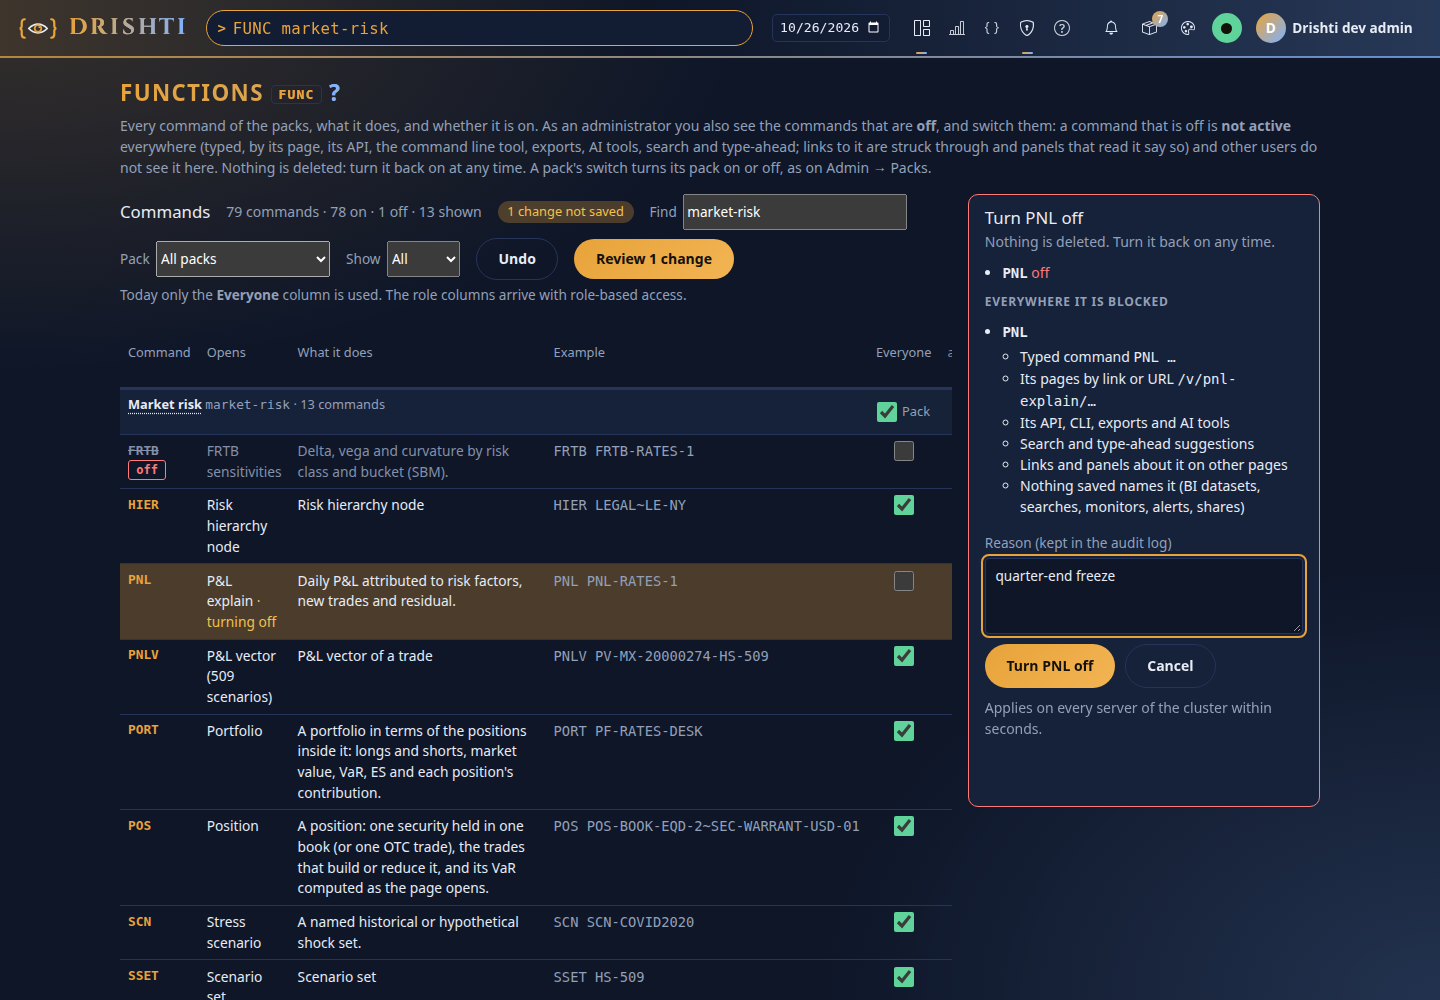
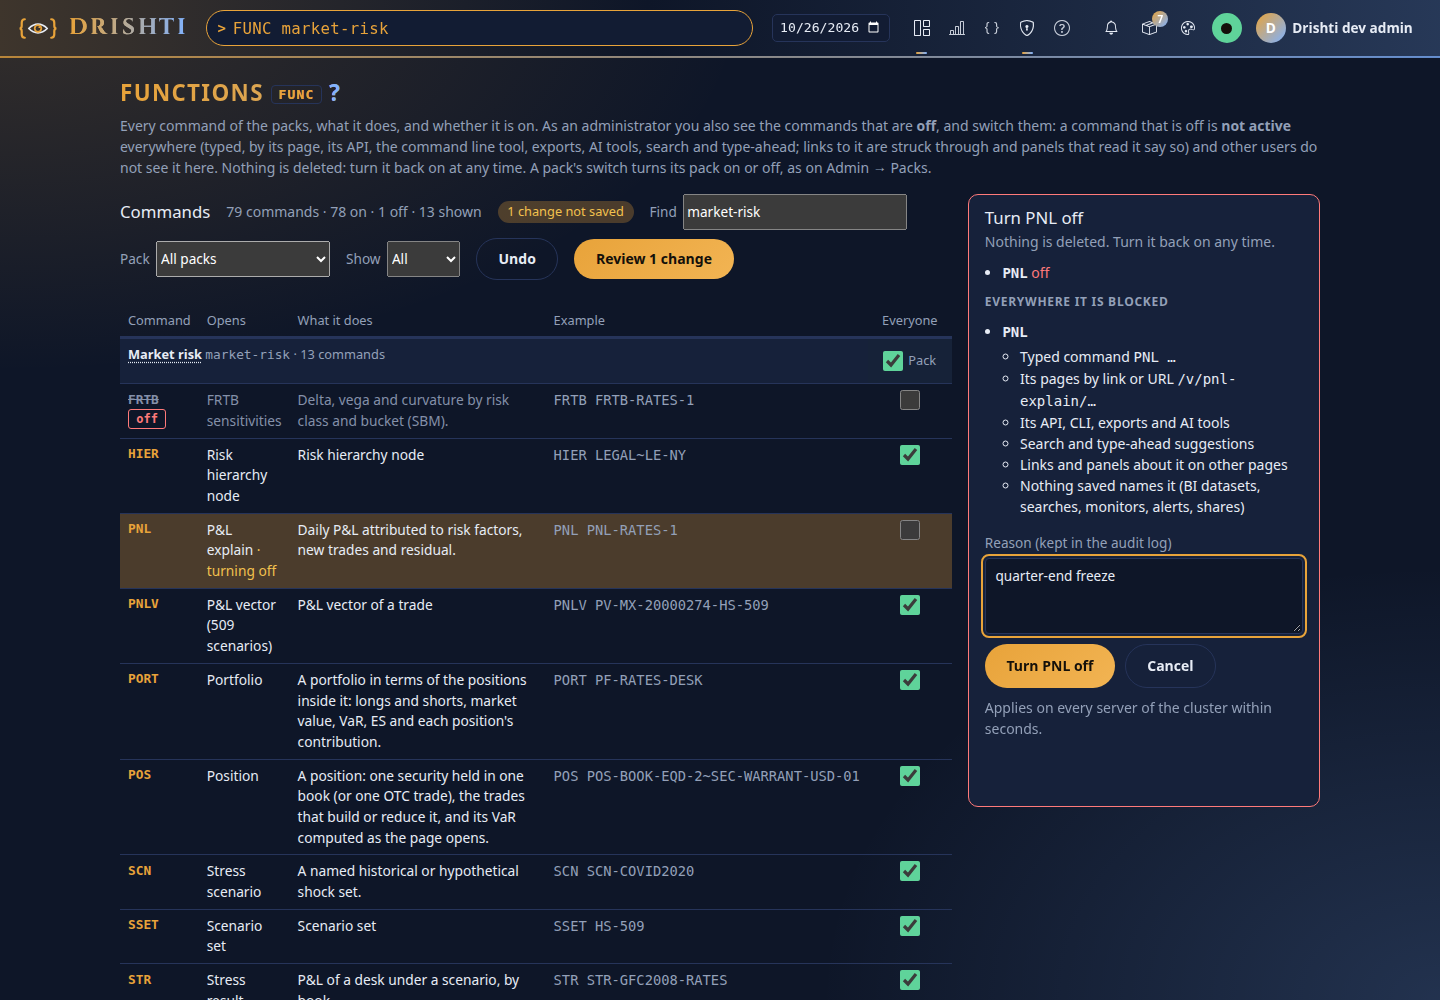
Functions: only the Everyone switch column, as in the approved mock-up (the greyed role columns and their note removed; a column per role comes with role-based access per command); admin pictures retaken; COMMANDS.md, CHANGELOG

Changed region(s): [[0.0625, 0.279, 0.6875, 1.0]]

diff --git a/drishti-console/web/templates/terminal/functions.html b/drishti-console/web/templates/terminal/functions.html
@@ -51,21 +51,18 @@
         <button type="button" class="btn-pill btn-accent" data-review disabled>Review changes</button>
         {% endif %}
       </div>
-      {% if admin %}<p class="text-muted-d cmd-roles-note">Today only the <b>Everyone</b> column is used. The role columns arrive with role-based access.</p>{% endif %}
       <p class="adm-msg" data-msg role="status" aria-live="polite"></p>
       <div class="tbl-wrap"><table class="tbl adm-tbl cmd-tbl" data-matrix data-plain>
         <caption class="visually-hidden">{% if admin %}Commands by pack, what each does, and who may use it{% else %}The commands you can use, by pack, and what each does{% endif %}</caption>
         <thead><tr><th scope="col">Command</th><th scope="col">Opens</th><th scope="col">What it does</th><th scope="col">Example</th>
-          {% if admin %}<th scope="col" class="cmd-col">Everyone</th>
-          {% for r in c.roles %}<th scope="col" class="cmd-col cmd-role" title="Role-based access to commands is not built yet">{{ r }}</th>{% endfor %}{% endif %}</tr></thead>
+          {% if admin %}<th scope="col" class="cmd-col">Everyone</th>{% endif %}</tr></thead>
         {% for p in c.packs %}
         <tbody data-pack="{{ p.name }}" data-pack-text="{{ (p.name ~ ' ' ~ (p.title or '')) | lower }}"{% if admin %} data-pack-on="{{ 'true' if p.on else 'false' }}"{% if p.neededBy %} data-needed-by="{{ p.neededBy | join(', ') }}"{% endif %}{% endif %}{% if not p.shown %} hidden{% endif %}>
           <tr class="cmd-pack"><th scope="rowgroup" colspan="4"><a class="cmd-pack-name" href="{{ p.form }}" title="Its search form: FORM {{ p.name }}">{{ p.title or p.name }}</a> <span class="mono text-muted-d">{{ p.name }}</span>
             <span class="text-muted-d" data-pack-counts>· {{ p.commands | length }} command{{ '' if p.commands | length == 1 else 's' }}</span>
             {% if admin and not p.on %}<span class="st st-bad">pack off</span>{% endif %}</th>
             {% if admin %}<td class="cmd-col"><label class="cmd-switch"><input type="checkbox" data-switch="pack" data-name="{{ p.name }}"{% if p.on %} checked{% endif %}
-              aria-label="Pack {{ p.name }} on for everyone"> <span>Pack</span></label></td>
-            {% for r in c.roles %}<td class="cmd-col cmd-role" aria-hidden="true">—</td>{% endfor %}{% endif %}</tr>
+              aria-label="Pack {{ p.name }} on for everyone"> <span>Pack</span></label></td>{% endif %}</tr>
           {% for m in p.commands %}
           <tr data-command="{{ m.code }}" data-kind="{{ m.kind }}" data-on="{{ 'true' if m.on else 'false' }}" data-text="{{ m.text }}"{% if not m.on %} class="cmd-is-off"{% endif %}{% if m.hidden %} hidden{% endif %}{% if m.since %} data-since="{{ m.since[:10] }}"{% endif %}{% if m.reason %} data-reason="{{ m.reason }}"{% endif %}>
             <th scope="row" class="mono cmd-code{% if not m.on %} cmd-off-code{% endif %}">{% if m.href %}<a href="{{ m.href }}" data-go="{{ m.go }}" title="Open {{ m.go }}">{{ m.code }}</a>{% else %}<span>{{ m.code }}</span>{% endif %}{% if not m.on %} <span class="st st-bad">off</span>{% endif %}</th>
@@ -73,8 +70,7 @@
             <td class="cmd-desc">{{ m.description or '' }}</td>
             <td class="mono text-muted-d func-ex">{% if m.example %}{{ m.example }}{% else %}<span class="func-form">search form</span>{% endif %}</td>
             {% if admin %}<td class="cmd-col"><input type="checkbox" class="cmd-check" data-switch="command" data-name="{{ m.code }}"{% if m.on %} checked{% endif %}
-              aria-label="{{ m.code }} for everyone"></td>
-            {% for r in c.roles %}<td class="cmd-col cmd-role" aria-hidden="true">—</td>{% endfor %}{% endif %}
+              aria-label="{{ m.code }} for everyone"></td>{% endif %}
           </tr>{% endfor %}
         </tbody>{% endfor %}
       </table></div>

diff --git a/drishti-console/web/static/css/functions.css b/drishti-console/web/static/css/functions.css
@@ -43,10 +43,8 @@
 .cmd-bar .btn-pill { min-height: 36px; }
 .cmd-pending { padding: .1rem .6rem; border-radius: 1rem; background: var(--d-emph-bg); color: var(--d-warn); font-size: .8rem; }
 .cmd-pending[hidden] { display: none; }
-.cmd-roles-note { margin: .3rem 0 .6rem; font-size: .85rem; }
 .cmd-tbl th, .cmd-tbl td { white-space: normal; vertical-align: top; }
 .cmd-tbl .cmd-col { text-align: center; width: 6rem; }
-.cmd-tbl .cmd-role { color: var(--d-faint); font-weight: 400; }
 .cmd-tbl .func-ex { white-space: nowrap; }
 .cmd-tbl .cmd-check { width: 20px; height: 20px; accent-color: var(--d-ok); }
 .cmd-tbl .cmd-desc { min-width: 16rem; max-width: 34rem; }

diff --git a/drishti-console/tests/test_functions.py b/drishti-console/tests/test_functions.py
@@ -13,7 +13,7 @@
 # See the LICENSE file in the root of this repository for the full terms.
 
 """Functions, FUNC (docs/admin/COMMANDS.md): the command directory for everyone (a user sees only the commands that are on, no switches; an
-administrator sees the matrix: commands × Everyone, greyed role columns, off commands, the batch sent with its reason, the history and impact
+administrator sees the matrix: commands × Everyone (no role columns until per-role access is built), off commands, the batch sent with its reason, the history and impact
 passed through); the reserved word FUNC; /admin/commands redirecting; and the "not active" page a command an administrator turned off
 answers with, by its page or the typed command; links and panels that read it say so."""
 import pytest
@@ -54,16 +54,17 @@ def as_user(monkeypatch):
     monkeypatch.setattr(Identity, "is_admin", property(lambda self: False))
 
 
-def test_an_administrator_sees_the_matrix_with_off_commands_switches_role_columns_and_each_servers_version(client, backend, monkeypatch):
+def test_an_administrator_sees_the_matrix_with_off_commands_the_everyone_switch_and_each_servers_version(client, backend, monkeypatch):
     with_admin(backend, monkeypatch, [])
     page = client.get("/func").text
-    for text in ("data-functions", "data-commands", 'data-matrix', "Everyone", ">auditor<", ">trader<", "The role columns arrive with role-based access",
+    for text in ("data-functions", "data-commands", 'data-matrix', "Everyone",
                  'data-command="FRTB"', 'data-on="false"', "FRTB SA sensitivities.", "FRTB FRTB-RATES-1", 'data-switch="pack" data-name="market-risk"',
                  'data-needed-by="counterparty-risk"', "Review changes", "data-undo", "Reason (kept in the audit log)", "data-show",
                  "Applies on every server of the cluster within seconds", "Version on each server", "n-b", "catching up", "in step",
                  "1 of 2 in step", "data-cluster", "History", "functions.js", "functions.css"):
         assert text in page, text
     assert "1 off" in page and "3 commands" in page
+    assert ">auditor<" not in page and "cmd-role" not in page and "role columns" not in page, "only the Everyone column (the approved mock-up)"
     assert '<span>FRTB</span> <span class="st st-bad">off</span>' in page, "an off command is struck through and not a link"
     assert 'href="/go?q=FRTB' not in page
     assert '<a href="/go?q=TRD%201000015" data-go="TRD 1000015"' in page

diff --git a/docs/admin/COMMANDS.md b/docs/admin/COMMANDS.md
@@ -58,13 +58,14 @@ An administrator (someone with the `admin` role, the same rule that shows the Ad
 - The commands that are **off** too, greyed, struck through, with an *off* chip, and never a link. **Show** keeps only the commands that are
   on or off. The count reads *N commands · X on · Y off*.
 - The **Everyone** column turns a command on or off for everyone; a pack's row has a **Pack** switch that turns the whole pack on or off, as
-  Admin → Packs does. The greyed role columns are where commands will be granted per role later; today only Everyone is used.
+  Admin → Packs does. Everyone is the only column today: a column per role will appear when role-based access per command is built
+  (the switches already record a grantee, `*` for everyone).
 - **Undo** and **Review changes**, with the side panel and its reason (below).
 - **Cluster** (a section that opens): the version of the switches each server of the cluster holds (*in step*, or *catching up* for a few
   seconds after a change) and the **History** of changes.
 
 ![Functions as an administrator, filtered to one pack (FUNC market-risk): FRTB is off, struck through and not a link; the Everyone and
-Pack switches, the greyed role columns, Undo and Review changes](img/functions/functions-admin.png)
+Pack switches, Undo and Review changes](img/functions/functions-admin.png)
 
 The server alone decides who may change a switch: the switches' API refuses anyone who is not an administrator (`403`), whatever page or
 script asks. Admin → Commands in the Admin menu opens this page.

diff --git a/CHANGELOG.md b/CHANGELOG.md
@@ -30,6 +30,9 @@
   command word (the pack loader, `drishti.py pack check`, type-ahead). Docs: [COMMANDS.md](docs/admin/COMMANDS.md) is now *Functions
   (FUNC)* with pictures for a user and an administrator, USER_GUIDE (Views menu, reserved words), API_GUIDE, COMMAND_CATALOG, BI_GUIDE,
   PACK_DEVELOPER_GUIDE, CLI_GUIDE, TOOLS, TROUBLESHOOTING, NET; F1 on the page opens COMMANDS.md.
+- Functions matches the approved mock-up: the administrator's view has only the Everyone switch column; the greyed role columns and
+  their note are gone (a column per role appears when role-based access per command is built; the API still lists the roles). Pictures
+  retaken; nothing scrolls sideways at the default width.
 
 ## 2.9.0 — Exposure computed for any scope, the stored exposure profile retired; VaR and exposure in BI; two documents per measure; the landing headline (2026-10-26)
 
